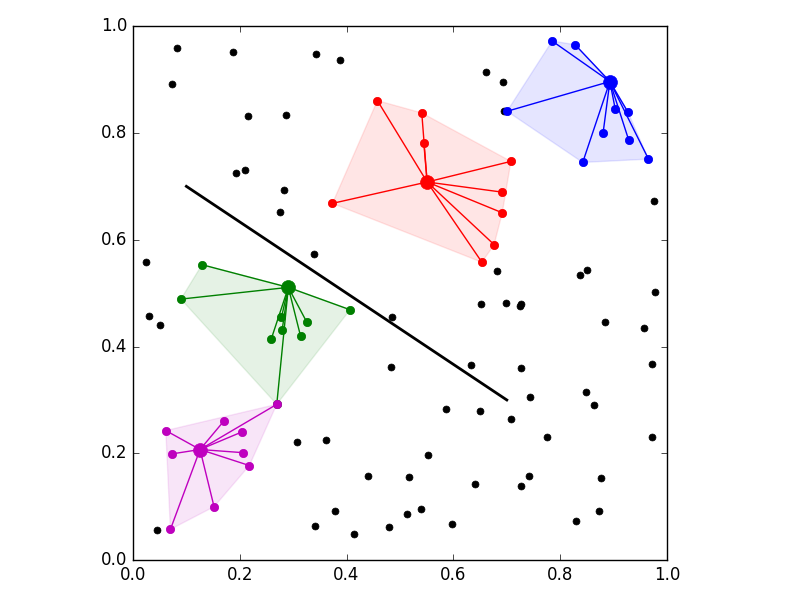
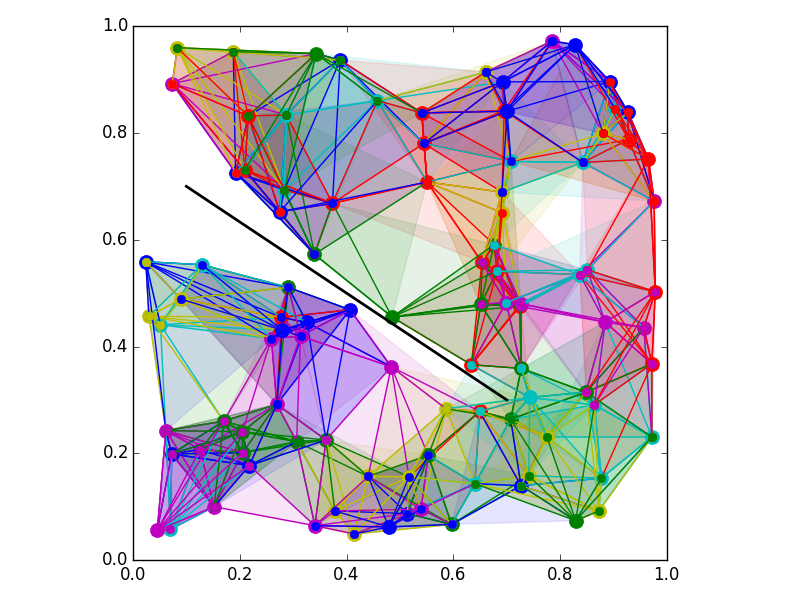
commit before pull

diff --git a/docs/scripts/stencil.a.py b/docs/scripts/stencil.a.py
@@ -25,7 +25,7 @@ sn = stencil_network(nodes,10,vert=bnd_vert,smp=bnd_smp)
 fig,ax = plt.subplots()
 ax.set_aspect('equal')
 ax.plot(nodes[:,0],nodes[:,1],'ko',ms=5,zorder=0)
-for i,s in enumerate(sn[:4]):
+for i,s in enumerate(sn[:]):
   for j in s:
     ax.plot(nodes[[i,j],0],nodes[[i,j],1],'o-',
             c=colors[i%6],ms=6,mec=colors[i%6],zorder=2)
